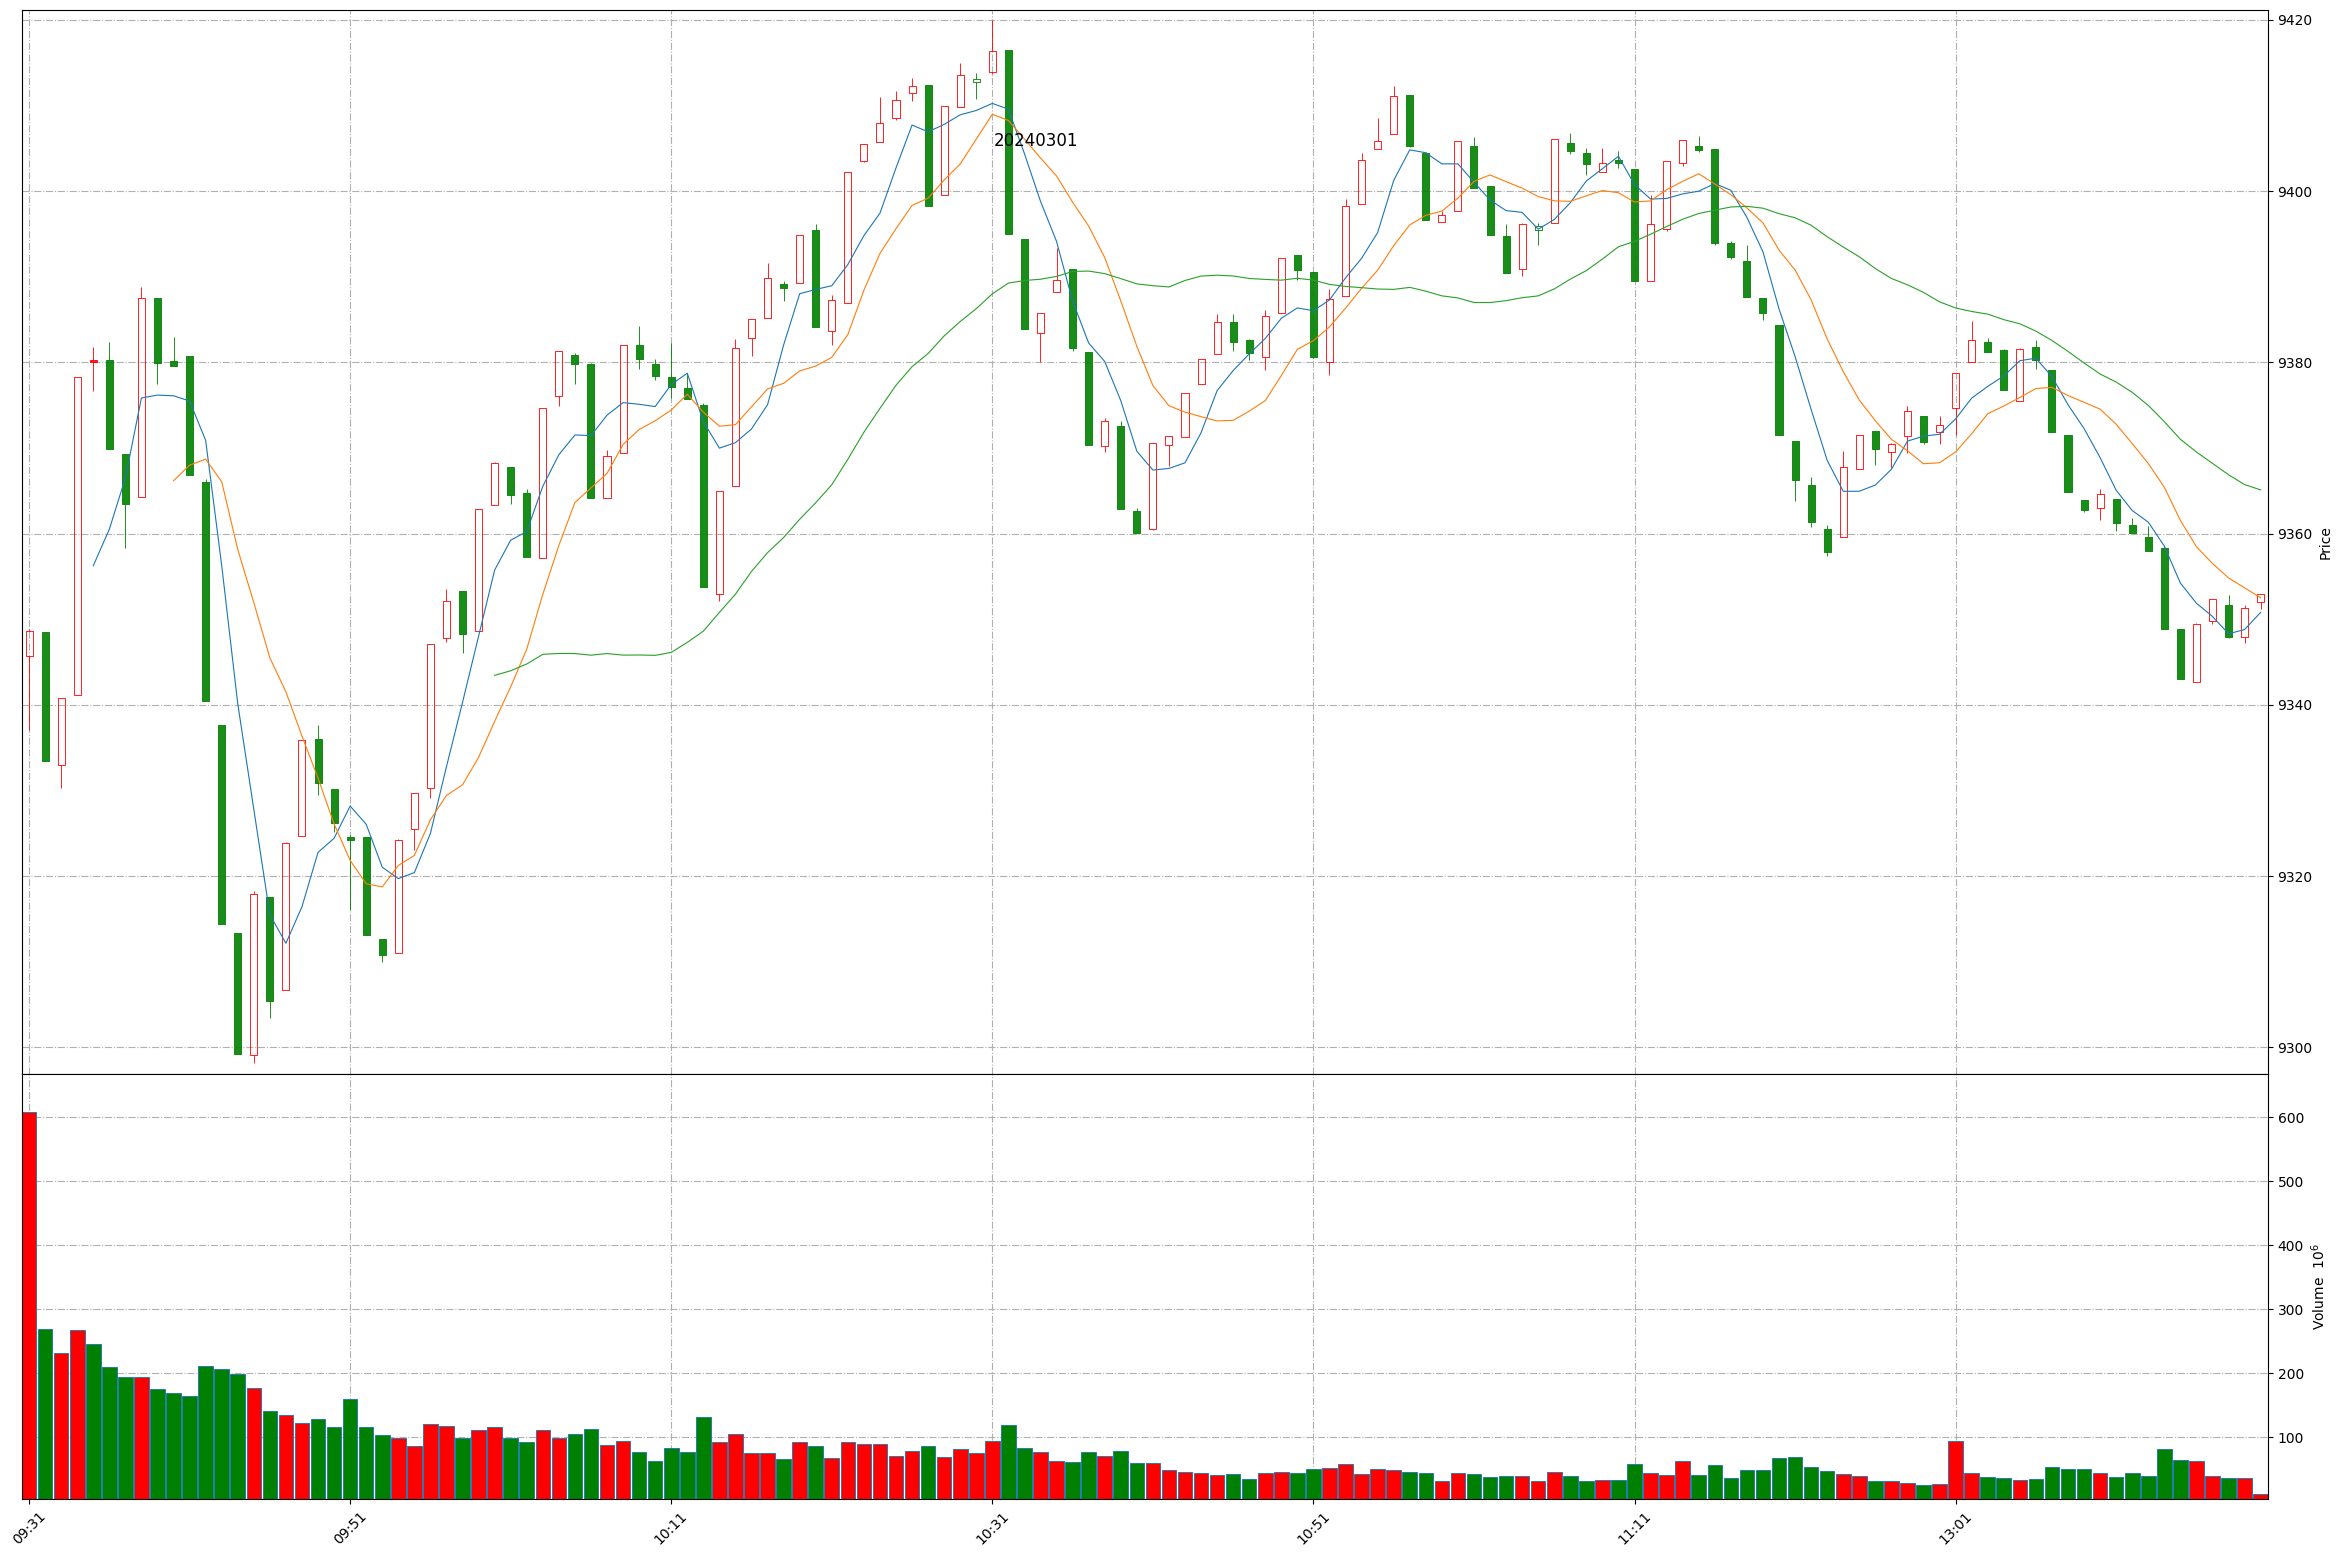
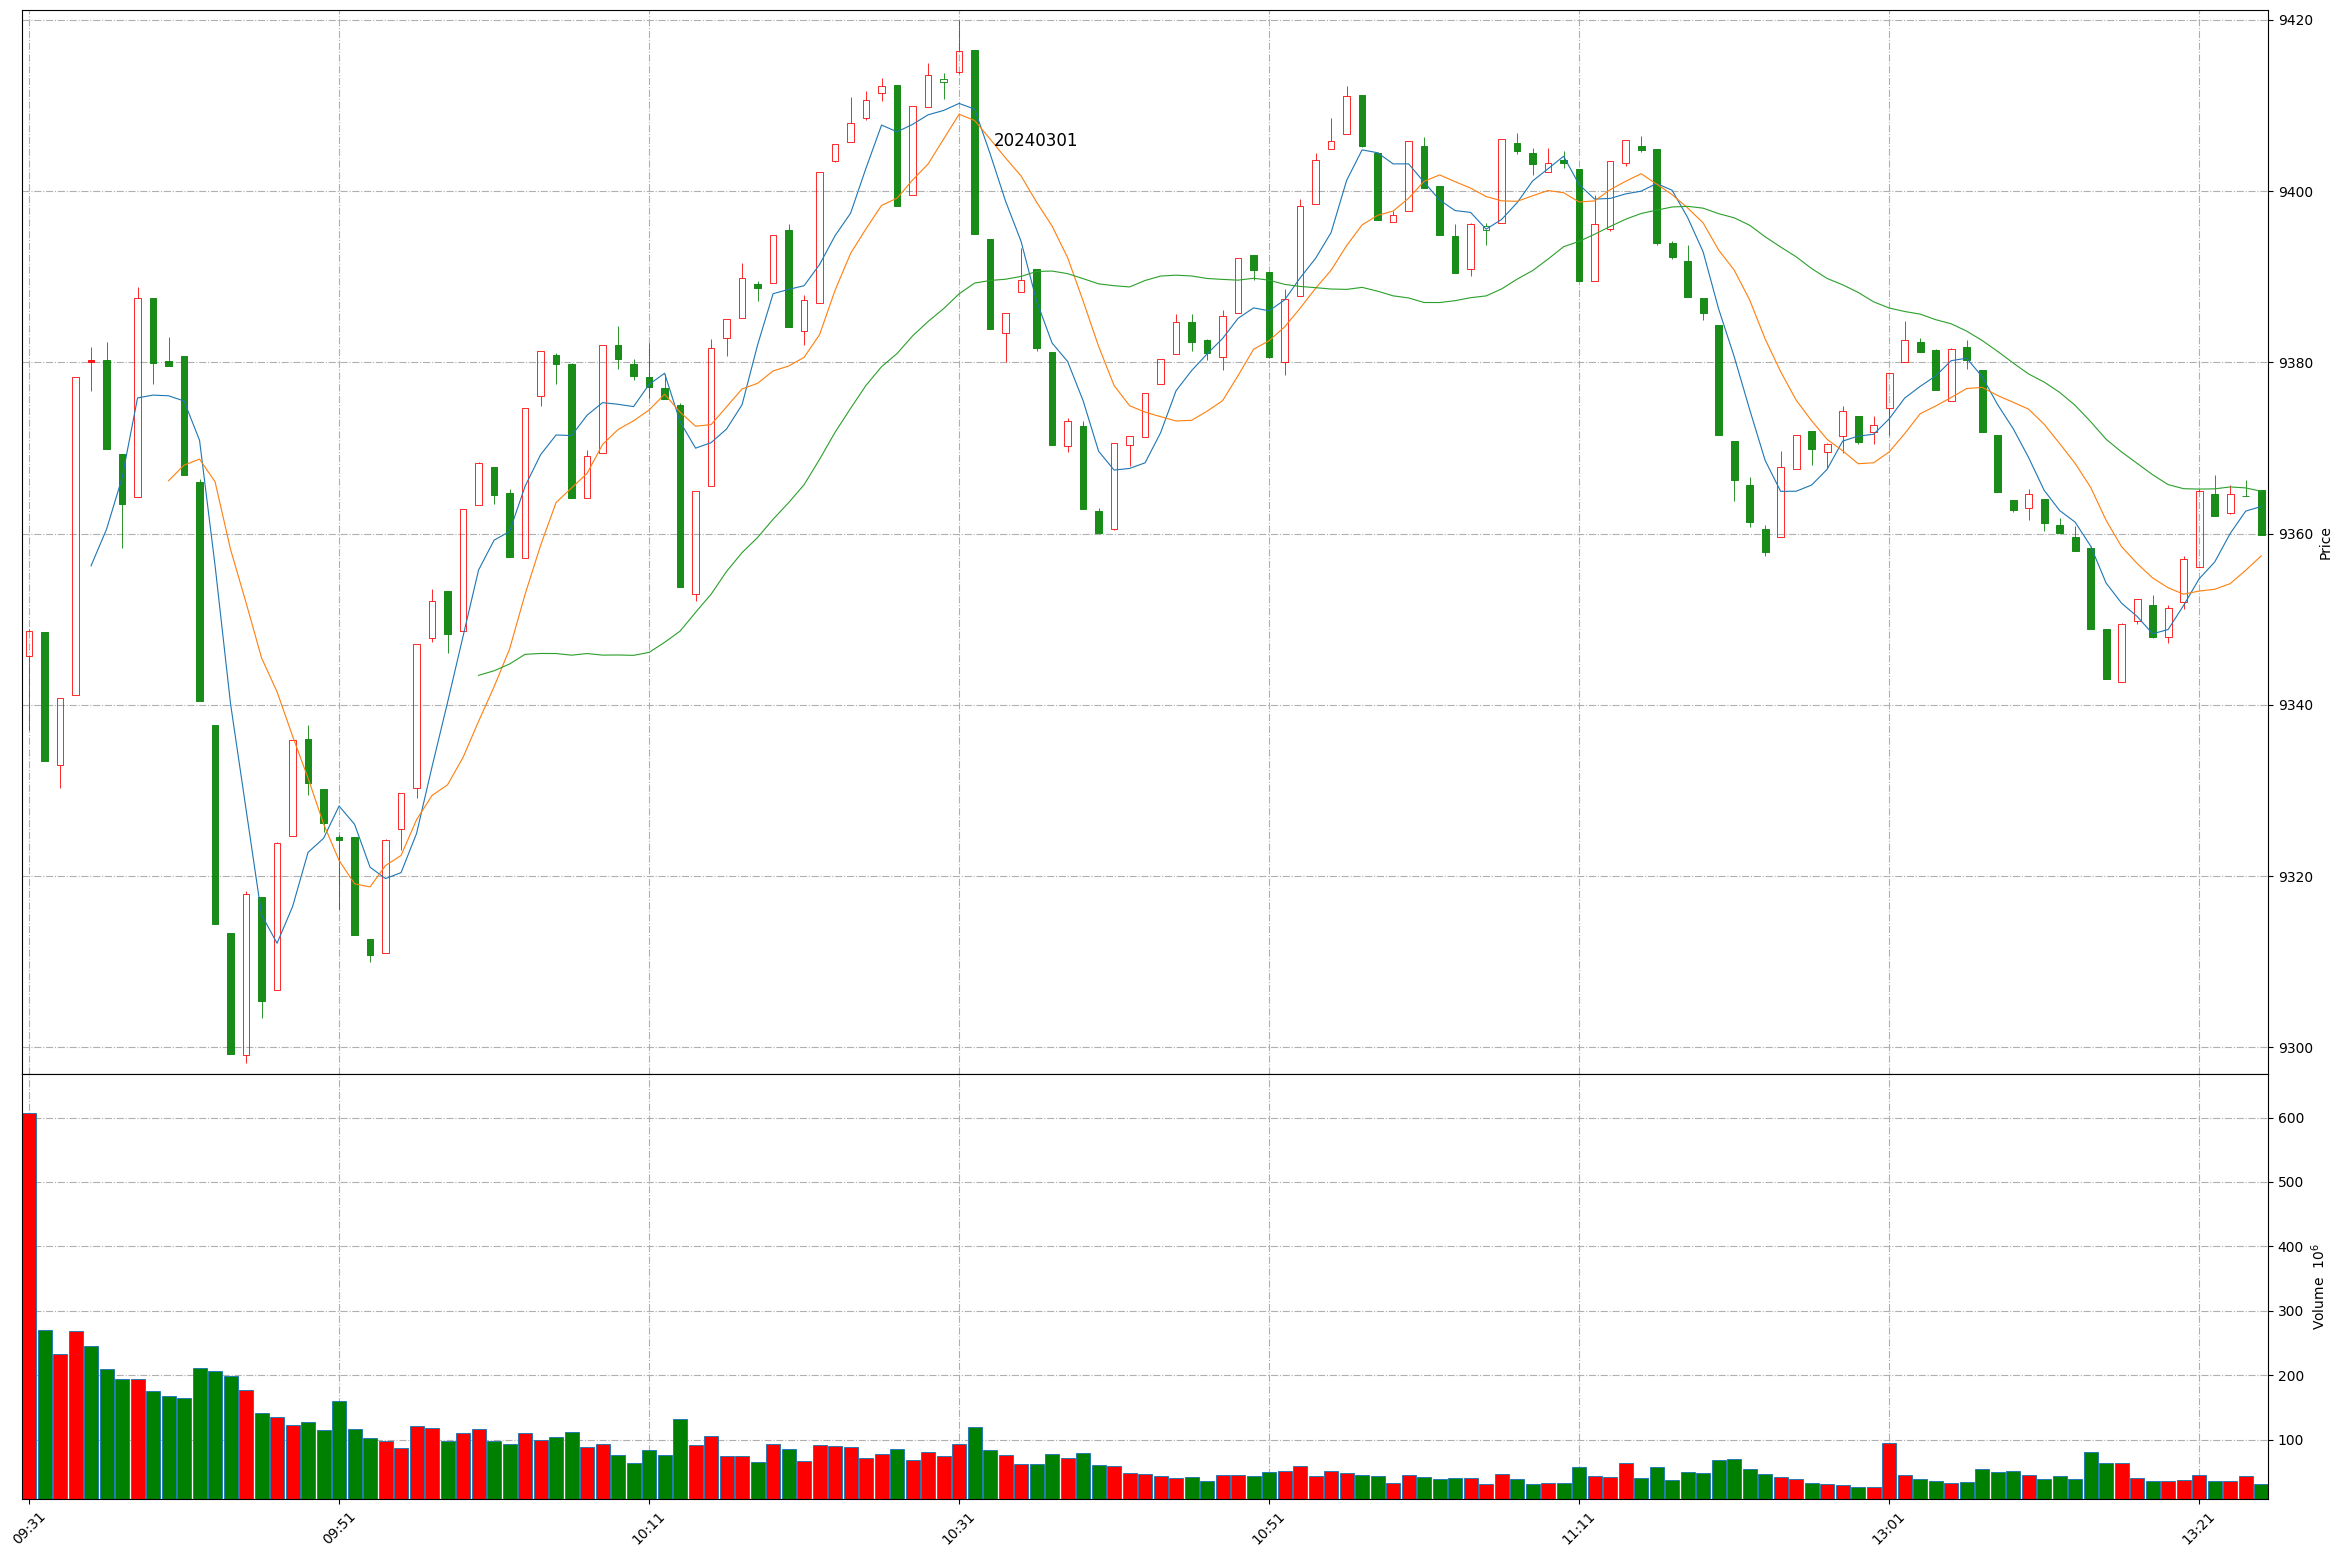
Github action update at 2024-03-01 13:24:52.

Changed region(s): [[0.187, 0.0308, 0.9663, 0.4624], [0.0312, 0.8632, 0.9663, 0.9865], [0.0312, 0.2158, 0.187, 0.6782]]

diff --git a/README.md b/README.md
@@ -1,11 +1,11 @@
 
 # Daily-A-share-market-quotes 每日 A 股指数（5min 更新）- 20240301
 
-### 上证指数 20240301 13:19
+### 上证指数 20240301 13:24
 ![](./fig/2024/3/20240301-sh000001.png)
 
-### 深证成指 20240301 13:19
+### 深证成指 20240301 13:24
 ![](./fig/2024/3/20240301-sz399001.png)
 
-### 北证50 20240301 13:19
+### 北证50 20240301 13:24
 ![](./fig/2024/3/20240301-bj899050.png)
